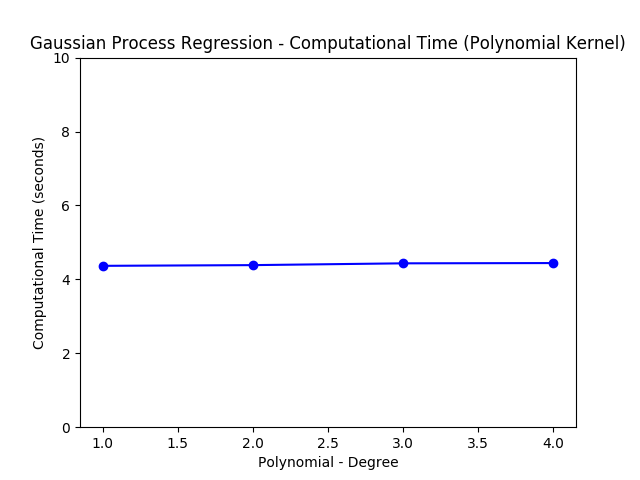
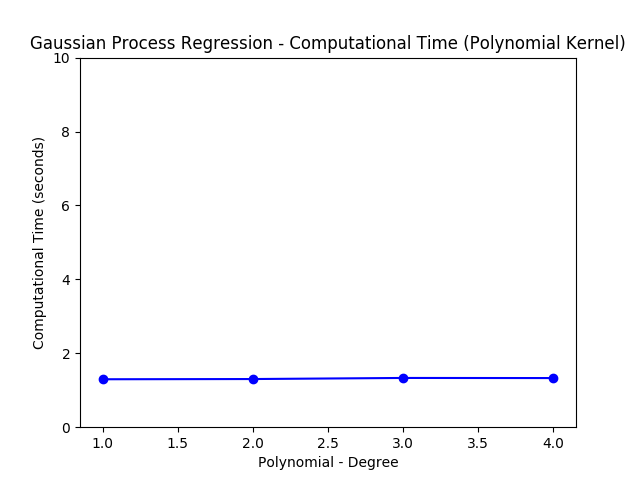
Added time-optimized results. Completed Q3 results discussion

Changed region(s): [[0.1562, 0.7812, 0.875, 0.8125], [0.1562, 0.5312, 0.875, 0.5625]]

diff --git a/assignments/a3/a3.tex b/assignments/a3/a3.tex
@@ -185,7 +185,7 @@
 
         \begin{figure}[ht]
             \centering
-            \includegraphics[width=0.6\textwidth]{3a_degree_vs_error.png}
+            \includegraphics[width=0.7\textwidth]{3a_degree_vs_error.png}
             \caption{Regularized Generalized Linear Regression - Error vs Basis function degree}
             \label{fig:rglg_err_v_deg}
         \end{figure}
@@ -194,7 +194,7 @@
 
         \begin{figure}[ht]
             \centering
-            \includegraphics[width=0.6\textwidth]{3a_degree_vs_time.png}
+            \includegraphics[width=0.7\textwidth]{3a_degree_vs_time.png}
             \caption{Regularized Generalized Linear Regression - Time vs Basis function degree}
             \label{fig:rglg_time_v_deg}
         \end{figure}
@@ -219,7 +219,7 @@
 
         \begin{figure}[ht]
             \centering
-            \includegraphics[width=0.6\textwidth]{3b_degree_vs_error.png}
+            \includegraphics[width=0.7\textwidth]{3b_degree_vs_error.png}
             \caption{Bayesian Generalized Linear Regression - Error vs Basis function degree}
             \label{fig:bglg_err_v_deg}
         \end{figure}
@@ -228,7 +228,7 @@
 
         \begin{figure}[ht]
             \centering
-            \includegraphics[width=0.6\textwidth]{3b_degree_vs_time.png}
+            \includegraphics[width=0.7\textwidth]{3b_degree_vs_time.png}
             \caption{Bayesian Generalized Linear Regression - Time vs Basis function degree}
             \label{fig:bglg_time_v_deg}
         \end{figure}
@@ -274,7 +274,7 @@
 
             \begin{figure}[ht]
                 \centering
-                \includegraphics[width=0.6\textwidth]{3c_gpr_gaussian_stddev_vs_error.png}
+                \includegraphics[width=0.7\textwidth]{3c_gpr_gaussian_stddev_vs_error.png}
                 \caption{Gaussian Process Regression - Gaussian Kernel - Standard Deviation vs. Error}
                 \label{fig:gpr_gaussian_stddev_vs_error}
             \end{figure}
@@ -283,7 +283,7 @@
 
             \begin{figure}[ht]
                 \centering
-                \includegraphics[width=0.6\textwidth]{3c_gpr_gaussian_stddev_vs_time.png}
+                \includegraphics[width=0.7\textwidth]{3c_gpr_gaussian_stddev_vs_time.png}
                 \caption{Gaussian Process Regression - Gaussian Kernel - Standard Deviation vs. Time}
                 \label{fig:gpr_gaussian_stddev_vs_time}
             \end{figure}
@@ -297,7 +297,7 @@
 
             \begin{figure}[ht]
                 \centering
-                \includegraphics[width=0.6\textwidth]{3c_gpr_polynomial_degree_vs_error.png}
+                \includegraphics[width=0.7\textwidth]{3c_gpr_polynomial_degree_vs_error.png}
                 \caption{Gaussian Process Regression - Polynomial Kernel - Degree vs. Error}
                 \label{fig:gpr_polynomial_degree_vs_error}
             \end{figure}
@@ -306,7 +306,7 @@
 
             \begin{figure}[ht]
                 \centering
-                \includegraphics[width=0.6\textwidth]{3c_gpr_polynomial_degree_vs_time.png}
+                \includegraphics[width=0.7\textwidth]{3c_gpr_polynomial_degree_vs_time.png}
                 \caption{Gaussian Process Regression - Polynomial Kernel - Degree vs. Time}
                 \label{fig:gpr_polynomial_degree_vs_time}
             \end{figure}
@@ -337,7 +337,7 @@
             \end{table}
             The best MSE for the Gaussian kernel was achieved for $\sigma = 4$ and the best MSE for the polynomial kernel was achieved for $d = 4$
 
-            The running times for each of the variations of the parameters for the Gaussian and Polynomial do not have significant deviations in terms of run-time, which allows computation of a regression function that scales only with the data, and not the complexity of the underlying basis function. This is indicated in Table \ref{tab:kernel_computational_time_comparison}.
+            The running times for each of the variations of the parameters for the Gaussian and Polynomial do not have significant deviations in terms of run-time, which allows computation of a regression function that scales only with the data, and not the complexity of the underlying basis function. This is indicated in Table \ref{tab:kernel_computational_time_comparison}. This implicitly means that the input features could theoretically be mapped into an infinite dimensional space, with no added computational cost as long as the number of data points remains the same.
             \begin{table}[ht]
                 \centering
                 \begin{tabular}{| l | c | c |}
@@ -347,9 +347,9 @@
                 \hline
                     Identity & 3.767 & - \\
                 \hline
-                    Gaussian & 5.761 & 0.008 \\
+                    Gaussian & 2.574 & 0.005 \\
                 \hline
-                    Polynomial & 4.406 & 0.032 \\
+                    Polynomial & 1.315 & 0.016 \\
                 \hline
                 \end{tabular}
                 \caption{Kernel Computational Time Comparison}
